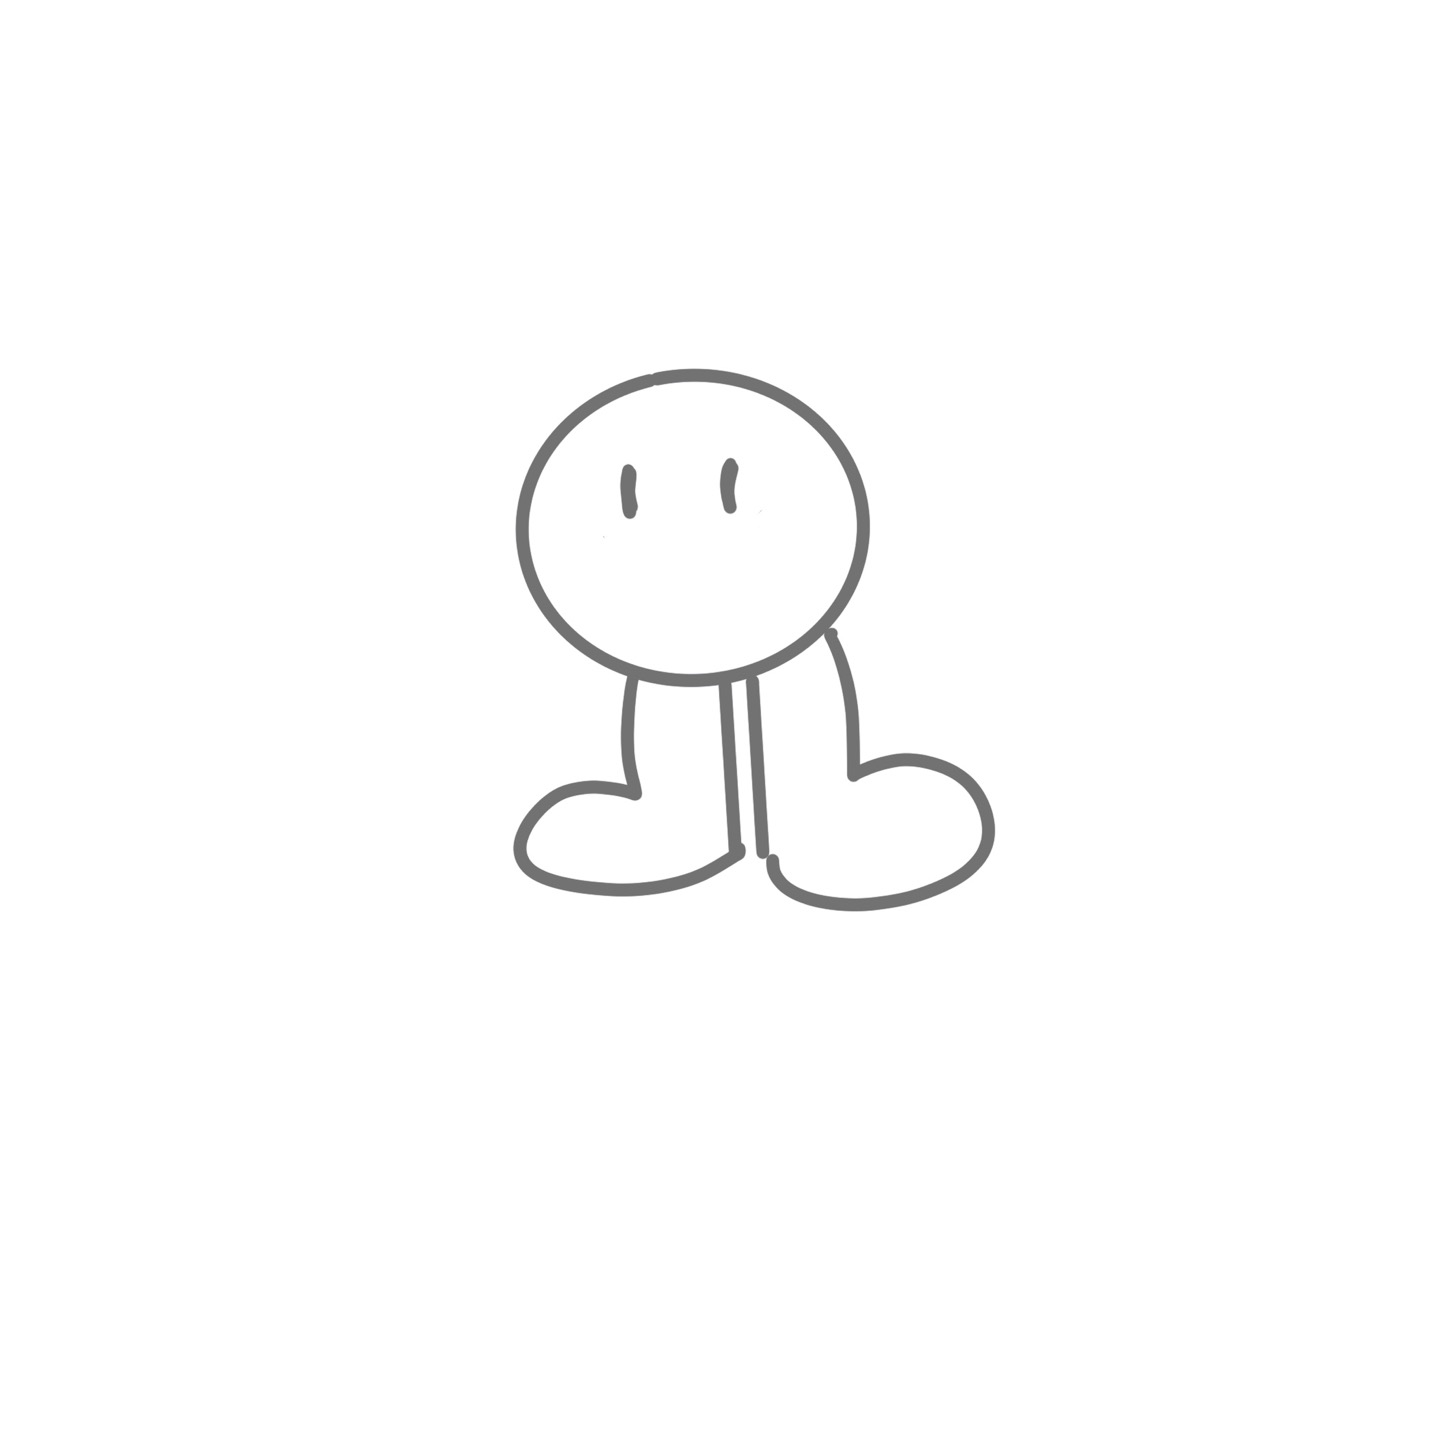
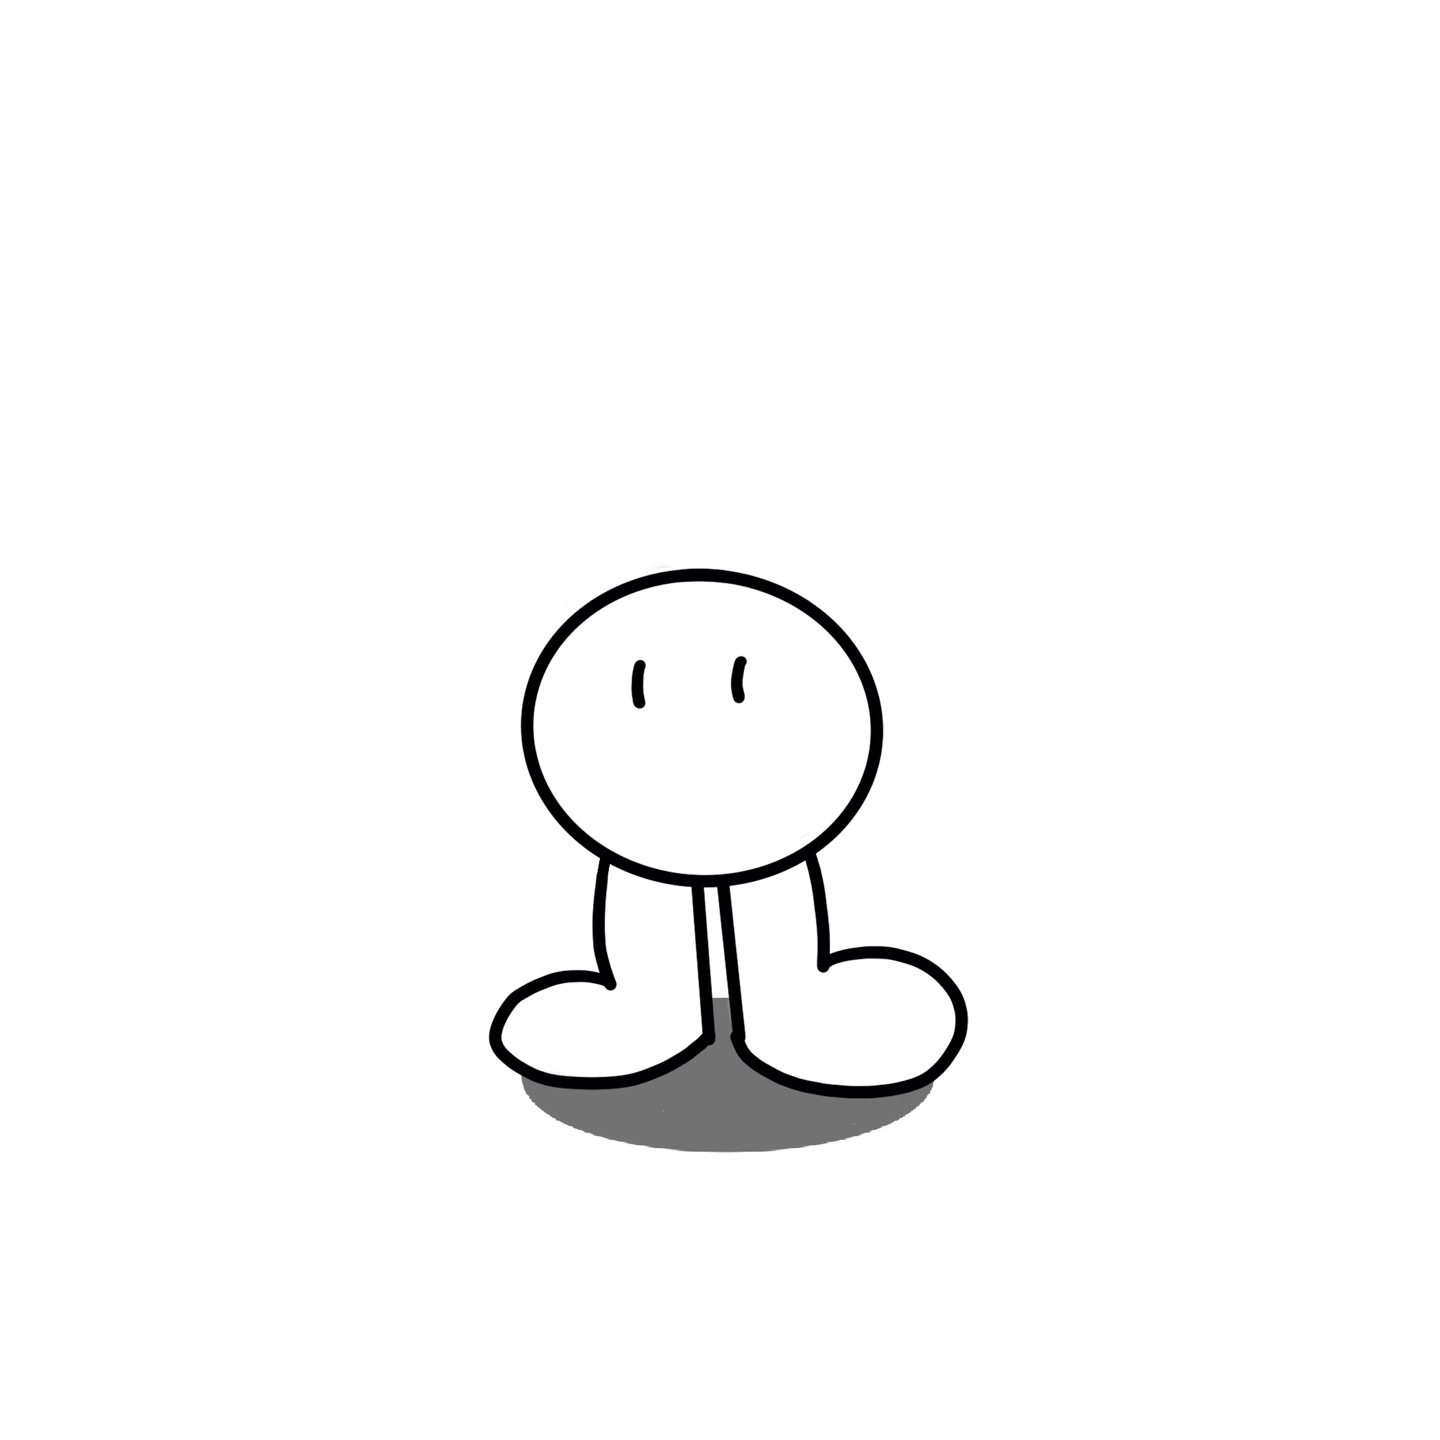
메인화면이미지변경_2023/03/09_시하

diff --git a/MBTI_TeamProject/src/main/webapp/resources/main.html b/MBTI_TeamProject/src/main/webapp/resources/main.html
@@ -15,9 +15,9 @@
 	
 	<br>
 	<CENTER>
-		<img class="mbti_character_00"
+		<img class="mbti_character_01"
 		width="500"
-		src="../resources/img/00.jpg">
+		src="../resources/img/01.jpg">
 	</CENTER>
 	
 	<br>
